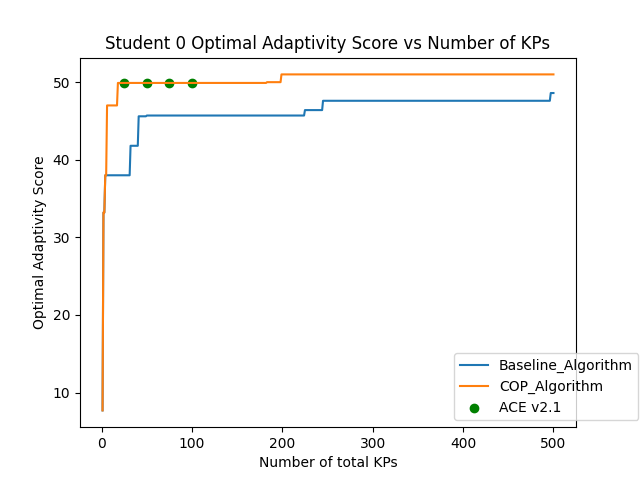
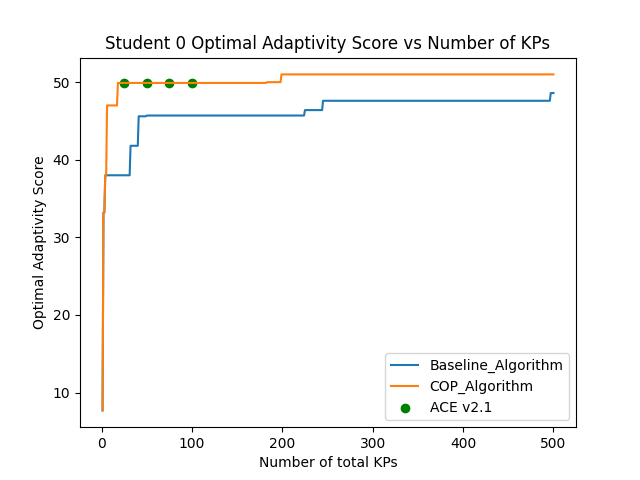
updating

Changed region(s): [[0.5938, 0.75, 1.0, 0.875]]

diff --git a/Experiment_graph_part2.py b/Experiment_graph_part2.py
@@ -19,34 +19,102 @@ experiment_ACE_df = pd.read_csv(os.path.join(experiment, "ace_data.csv"))
 # Define a list of student ids
 student_ids = [0, 1, 2, 3]
 
-# Loop over the student ids
-for student_id in student_ids:
-    # Define databases for each student
-    experiment_df_student = experiment_df[experiment_df["Student_id"] == student_id]
-    experiment_optimal_df_student = experiment_optimal_df[experiment_optimal_df["Student_id"] == student_id]
-    experiment_ACE_df_student = experiment_ACE_df[experiment_ACE_df["Student_id"] == student_id]
+compare_adaptivity = True
+if compare_adaptivity:
+    # Loop over the student ids
+    for student_id in student_ids:
+        # Define databases for each student
+        experiment_df_student = experiment_df[experiment_df["Student_id"] == student_id]
+        experiment_optimal_df_student = experiment_optimal_df[experiment_optimal_df["Student_id"] == student_id]
+        experiment_ACE_df_student = experiment_ACE_df[experiment_ACE_df["Student_id"] == student_id]
 
-    # Plot the scatterplot with colors and labels by student_id
+        # Plot the scatterplot with colors and labels by student_id
+        for student, group in experiment_df_student.groupby("Student_id"):
+            plt.plot(group["Num_total_KP"], group["Best_AS"], label="Baseline_Algorithm")
+
+        for student, group in experiment_optimal_df_student.groupby("Student_id"):
+            plt.plot(group["Num_total_KP"], group["Best_AS"], label="COP_Algorithm")
+
+        for student, group in experiment_ACE_df_student.groupby("Student_id"):
+            plt.scatter(group["Num_total_KP"], group["Best_AS"], label="ACE v2.1", c="green")
+
+        plt.xlabel("Number of total KPs")
+        plt.ylabel("Optimal Adaptivity Score")
+        plt.title(f"Student {student_id} Optimal Adaptivity Score vs Number of KPs")
+        plt.legend(loc='lower right')
+        # Save plot as image file
+        plt.savefig(data_folder+f"Student_{student_id}_adaptivity_score_vs_numKPs_run4.png")
+        plt.close()
+
+    experiment_df_student = experiment_df[experiment_df["Student_id"] == 4]
     for student, group in experiment_df_student.groupby("Student_id"):
-        plt.plot(group["Num_total_KP"], group["Best_AS"], label="Baseline_Algorithm")
-
-    for student, group in experiment_optimal_df_student.groupby("Student_id"):
-        plt.plot(group["Num_total_KP"], group["Best_AS"], label="COP_Algorithm")
-
-    for student, group in experiment_ACE_df_student.groupby("Student_id"):
-        plt.scatter(group["Num_total_KP"], group["Best_AS"], label="ACE v2.1", c="green")
-
-    plt.xlabel("Number of total KPs")
-    plt.ylabel("Optimal Adaptivity Score")
-    plt.title(f"Student {student_id} Optimal Adaptivity Score vs Number of KPs")
-    plt.legend(bbox_to_anchor=(1.14,0), loc='lower right')
-    # Save plot as image file
-    plt.savefig(data_folder+f"Student_{student_id}_adaptivity_score_vs_numKPs_run4.png")
+        plt.plot(group["Num_total_KP"], group["Best_AS"], label="Local Optimal Score")
+        plt.xlabel("Number of total KPs")
+        plt.ylabel("Optimal Adaptivity Score")
+        plt.title("Student 4 Optimal Adaptivity Score vs Number of KPs")
+        plt.legend(loc='lower right')
+        # Save plot as image file
+    plt.savefig(data_folder+f"Student_4_adaptivity_score_vs_numKPs_run4.png")
     plt.close()
 
+compare_Time = False
+if compare_Time:
+    for student_id in student_ids:
+        experiment_df_student = experiment_df[experiment_df["Student_id"] == student_id]
+        experiment_optimal_df_student = experiment_optimal_df[experiment_optimal_df["Student_id"] == student_id]
+        experiment_ACE_df_student = experiment_ACE_df[experiment_ACE_df["Student_id"] == student_id]
 
+        # Plot the scatterplot with colors and labels by student_id
+        for student, group in experiment_df_student.groupby("Student_id"):
+            plt.plot(group["Num_total_KP"], group["Alg_time"], label="Baseline_Algorithm")
 
+        for student, group in experiment_optimal_df_student.groupby("Student_id"):
+            plt.plot(group["Num_total_KP"], group["Alg_time"], label="COP_Algorithm")
 
+        for student, group in experiment_ACE_df_student.groupby("Student_id"):
+            plt.scatter(group["Num_total_KP"], group["Alg_time"], label="ACE v2.1", c="green")
+
+        plt.xlabel("Number of total KPs")
+        plt.ylabel("Algorithm time to calculate in seconds")
+        plt.title(f"Student {student_id} Algorithm time (s) vs Number of KPs")
+        plt.legend(loc='lower right')
+        # Save plot as image file
+        plt.savefig(data_folder+f"Student_{student_id}_alg_time_vs_numKPs_run4.png")
+        plt.close()
+
+    experiment_df_student = experiment_df[experiment_df["Student_id"] == 4]
+    for student, group in experiment_df_student.groupby("Student_id"):
+        plt.plot(group["Num_total_KP"], group["Alg_time"], label="Algorithm time")
+        plt.xlabel("Number of total KPs")
+        plt.ylabel("Algorithm time to calculate in seconds")
+        plt.title("Student 4 Algorithm time (s) vs Number of KPs")
+        plt.legend(loc='lower right')
+        # Save plot as image file
+    plt.savefig(data_folder+f"Student_4_alg_time_vs_numKPs_run4.png")
+    plt.close()
+
+compare_num_KPs_explored =False
+if compare_num_KPs_explored:
+    for student_id in student_ids:
+        # Define databases for each student
+        experiment_df_student = experiment_df[experiment_df["Student_id"] == student_id]
+        experiment_optimal_df_student = experiment_optimal_df[experiment_optimal_df["Student_id"] == student_id]
+        experiment_ACE_df_student = experiment_ACE_df[experiment_ACE_df["Student_id"] == student_id]
+
+        # Plot the scatterplot with colors and labels by student_id
+        for student, group in experiment_df_student.groupby("Student_id"):
+            plt.plot(group["Num_total_KP"], group["Num_KP_Explored"], label="Baseline_Algorithm")
+
+        for student, group in experiment_optimal_df_student.groupby("Student_id"):
+            plt.plot(group["Num_total_KP"], group["Num_KP_Explored"], label="COP_Algorithm")
+
+        plt.xlabel("Number of total KPs")
+        plt.ylabel("Number of KPs Explored")
+        plt.title(f"Student {student_id} Num KPs Explored vs Number of KPs")
+        plt.legend(loc='lower right')
+        # Save plot as image file
+        plt.savefig(data_folder+f"Student_{student_id}_num_KPs_explored_vs_numKPs_run4.png")
+        plt.close()
 # # Define databases for student 0
 # experiment_df_0 = experiment_df[experiment_df["Student_id"] == 0]
 # experiment_optimal_df_0 = experiment_optimal_df[experiment_optimal_df["Student_id"] == 0]
